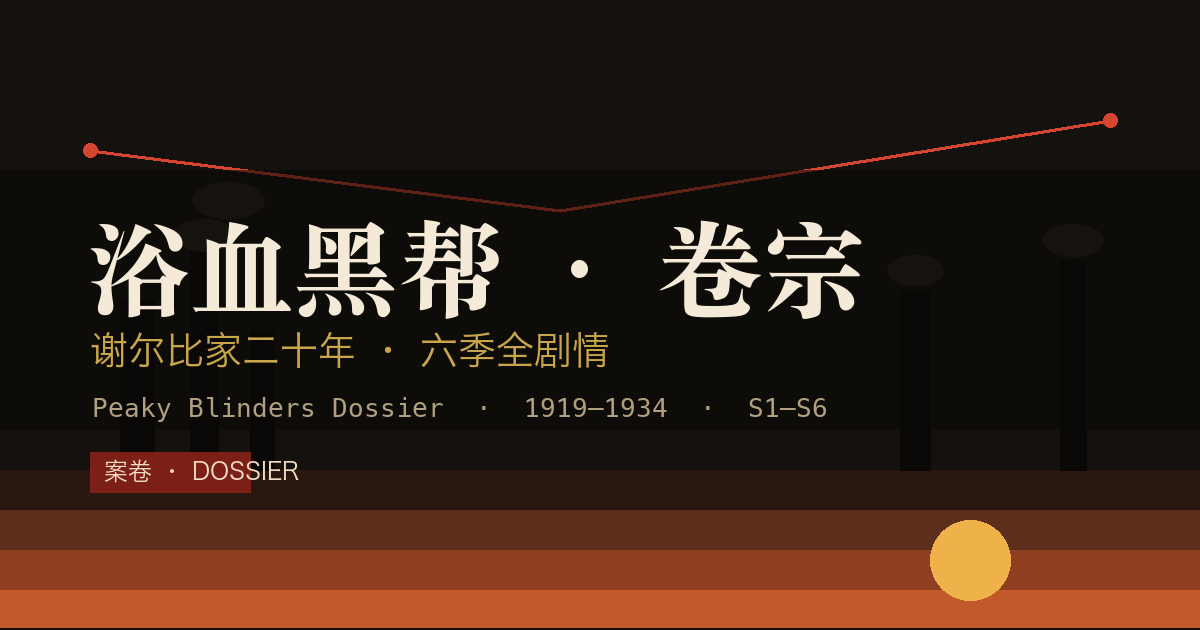
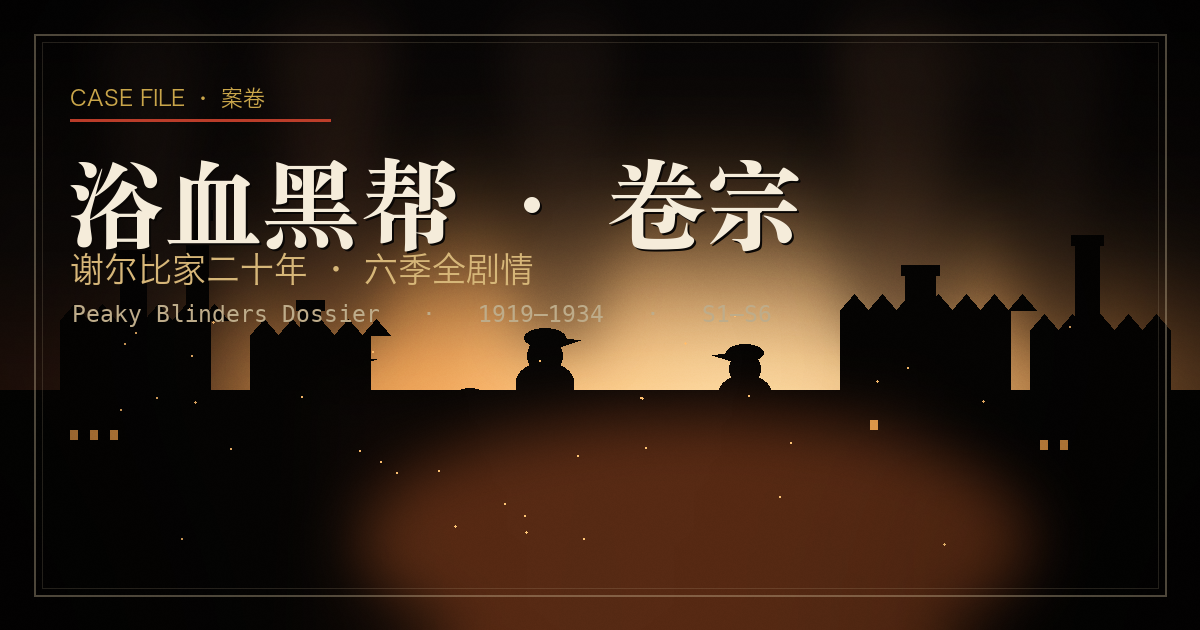
art: redesign cover — backlit industrial skyline + flat-cap silhouettes + furnace glow + wet-street reflection
- fix: PIL ImageChops.screen returns a new image (skyline/figures were drawn on an orphaned layer)
- fix: 案卷 tofu (mono font lacked CJK) -> sans
- bundle the generator (tools_gen_og.py)

diff --git a/tools_gen_og.py b/tools_gen_og.py
@@ -1,0 +1,112 @@
+from PIL import Image, ImageDraw, ImageFont, ImageFilter, ImageChops
+import random
+random.seed(11)
+W,H=1200,630
+
+# ---------- 1. sky gradient: soot black (top) -> ember (low horizon) ----------
+def lerp(a,b,t): return tuple(int(a[i]+(b[i]-a[i])*t) for i in range(3))
+stops=[(0.00,(7,6,6)),(0.40,(20,14,11)),(0.62,(46,24,15)),(0.78,(120,52,24)),(0.88,(196,98,42)),(0.96,(228,138,66)),(1.0,(150,64,30))]
+def gcol(p):
+    for i in range(len(stops)-1):
+        p0,c0=stops[i]; p1,c1=stops[i+1]
+        if p<=p1:
+            t=(p-p0)/(p1-p0) if p1>p0 else 0; return lerp(c0,c1,t)
+    return stops[-1][1]
+img=Image.new("RGB",(W,H)); d=ImageDraw.Draw(img)
+for y in range(H): d.line([(0,y),(W,y)],fill=gcol(y/H))
+
+# ---------- 2. furnace glow (soft, behind the figures) ----------
+glow=Image.new("RGB",(W,H),(0,0,0)); gd=ImageDraw.Draw(glow)
+gd.ellipse([W*0.16,H*0.40,W*0.99,H*0.90],fill=(255,166,82))
+gd.ellipse([W*0.40,H*0.48,W*0.84,H*0.82],fill=(255,206,140))
+gd.ellipse([W*0.52,H*0.54,W*0.74,H*0.76],fill=(255,228,176))
+glow=glow.filter(ImageFilter.GaussianBlur(70))
+img=ImageChops.screen(img,glow)
+d=ImageDraw.Draw(img)  # re-bind: screen() returned a NEW image
+
+# ---------- 3. smoke plumes (blurred, rising) ----------
+smoke=Image.new("RGBA",(W,H),(0,0,0,0)); smd=ImageDraw.Draw(smoke)
+for (x,w,col) in [(150,70,(40,28,22,120)),(330,90,(54,34,24,120)),(560,80,(40,28,22,110)),(900,100,(60,40,28,120)),(1060,70,(40,28,22,110))]:
+    for k in range(7):
+        yy=H*0.50-k*46; ww=w+k*14
+        smd.ellipse([x-ww//2,yy-34,x+ww//2,yy+34],fill=col)
+smoke=smoke.filter(ImageFilter.GaussianBlur(26))
+img.paste(smoke,(0,0),smoke)
+
+# ---------- 4. industrial skyline (chimneys + sheds), pure black, lit windows ----------
+BK=(6,5,4)
+hz=int(H*0.62)
+d.rectangle([0,hz,W,H],fill=BK)  # ground mass
+# factory sheds (sawtooth roofs)
+for (x,w,h) in [(60,150,70),(250,120,55),(840,170,80),(1030,140,60)]:
+    d.rectangle([x,hz-h,x+w,hz],fill=BK)
+    for i in range(0,w,28): d.polygon([(x+i,hz-h),(x+i+14,hz-h-16),(x+i+28,hz-h)],fill=BK)
+# chimneys
+for (x,top,w) in [(120,250,26),(186,210,22),(300,300,20),(905,265,30),(1075,235,24)]:
+    d.rectangle([x,top,x+w,hz],fill=BK); d.rectangle([x-4,top,x+w+4,top+10],fill=BK)
+# lit windows (tiny ember dots)
+for (x,y) in [(70,430),(90,430),(110,430),(870,420),(890,420),(1040,440),(1060,440)]:
+    d.rectangle([x,y,x+7,y+9],fill=(226,150,70))
+
+# ---------- 5. the walking gang: flat-cap silhouettes, backlit ----------
+def man(x,feet,h,col=BK):
+    s=h/250.0; top=feet-h; sw=50*s; hip=42*s
+    d.polygon([(x-sw/2,top+46*s),(x+sw/2,top+46*s),(x+hip/2+9*s,feet),(x-hip/2-9*s,feet)],fill=col)  # coat
+    d.ellipse([x-sw/2,top+30*s,x+sw/2,top+64*s],fill=col)                                            # shoulders
+    hr=15*s
+    d.ellipse([x-hr,top+8*s,x+hr,top+40*s],fill=col)                                                 # head
+    cw=hr*2.4
+    d.ellipse([x-cw/2,top,x+cw/2,top+17*s],fill=col)                                                 # flat cap
+    pk=1 if x<W/2 else -1
+    d.polygon([(x+pk*cw*0.35,top+8*s),(x+pk*cw*0.85,top+11*s),(x+pk*cw*0.35,top+17*s)],fill=col)     # peak
+# back row (smaller, hazier) then front row (bigger)
+for (x,f,h) in [(470,556,168),(700,550,158),(585,544,138)]: man(x,f,h)
+for (x,f,h) in [(345,604,256),(545,616,288),(745,606,262),(910,594,228)]: man(x,f,h)
+# rising embers
+for i in range(36):
+    ex=random.randint(120,1080); ey=random.randint(300,560); r=random.choice([1,1,2])
+    d.ellipse([ex,ey,ex+r,ey+r],fill=(255,190,110))
+
+# ---------- 5b. wet-street reflection of the furnace glow ----------
+refl=Image.new("RGB",(W,H),(0,0,0)); rd=ImageDraw.Draw(refl)
+rd.ellipse([W*0.30,H*0.66,W*0.86,H*1.06],fill=(84,38,16))
+for sx in range(340,930,24):
+    rd.line([(sx,hz),(sx+random.randint(-12,12),H)],fill=(66,30,14),width=3)
+refl=refl.filter(ImageFilter.GaussianBlur(28))
+img=ImageChops.screen(img,refl); d=ImageDraw.Draw(img)
+# ---------- 6. vignette ----------
+vig=Image.new("L",(W,H),96); vd=ImageDraw.Draw(vig)
+vd.ellipse([int(W*0.04),int(-H*0.10),int(W*0.96),int(H*1.18)],fill=255)
+vig=vig.filter(ImageFilter.GaussianBlur(140))
+img=ImageChops.multiply(img,Image.merge("RGB",(vig,vig,vig)))
+
+# ---------- 7. film grain ----------
+noise=Image.effect_noise((W,H),26).convert("RGB")
+img=Image.blend(img,ImageChops.overlay(img,noise),0.05)
+
+# ---------- 8. typography ----------
+d=ImageDraw.Draw(img,"RGBA")
+def font(paths,sz):
+    for p in paths:
+        try: return ImageFont.truetype(p,sz)
+        except Exception: pass
+    return ImageFont.load_default()
+serif=["/System/Library/Fonts/Supplemental/Songti.ttc","/System/Library/Fonts/STSong.ttf","/System/Library/Fonts/PingFang.ttc"]
+sans=["/System/Library/Fonts/PingFang.ttc","/System/Library/Fonts/Hiragino Sans GB.ttc"]
+mono=["/System/Library/Fonts/Menlo.ttc","/System/Library/Fonts/Courier.ttc"]
+f_t=font(serif,98); f_s=font(sans,34); f_e=font(mono,23); f_k=font(sans,22)
+# thin editorial frame
+d.rectangle([34,34,W-34,H-34],outline=(214,196,160,90),width=2)
+d.rectangle([42,42,W-42,H-42],outline=(214,196,160,40),width=1)
+# kicker
+d.text((70,86),"CASE FILE · 案卷",font=f_k,fill=(202,166,74,255))
+d.line([(70,120),(330,120)],fill=(214,69,47,220),width=3)
+# title (with soft shadow for legibility over smoke)
+d.text((68,138),"浴血黑帮 · 卷宗",font=f_t,fill=(10,7,5,180))
+d.text((66,136),"浴血黑帮 · 卷宗",font=f_t,fill=(245,236,218,255))
+# subtitle
+d.text((70,252),"谢尔比家二十年 · 六季全剧情",font=f_s,fill=(214,182,120,255))
+d.text((72,300),"Peaky Blinders Dossier   ·   1919–1934   ·   S1–S6",font=f_e,fill=(190,172,138,235))
+
+img.save("/Users/cry/Desktop/peaky-dossier/og.png",quality=92)
+print("saved",img.size)